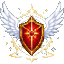
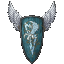
feat: 성기사 각성 아이템 6종 그림과 아이템 플레이버 문구 12종

diff --git a/tests/codex.test.ts b/tests/codex.test.ts
@@ -29,9 +29,9 @@ describe('도감', () => {
     for (const e of withFlavor) expect(D.text[e.flavor!], e.id).toBeTypeOf('string');
     expect(D.enemies.enemies.find((e) => e.id === 'royalMage')?.flavor).toBeUndefined();
   });
-  it('아이템·무기 플레이버 문구 36종이 모두 ko.json에 있다', () => {
+  it('아이템·무기 플레이버 문구 48종이 모두 ko.json에 있다', () => {
     const withFlavor = [...D.items.items, ...D.weapons.weapons].filter((x) => x.flavor);
-    expect(withFlavor).toHaveLength(36);
+    expect(withFlavor).toHaveLength(48);
     for (const x of withFlavor) expect(D.text[x.flavor!], x.id).toBeTypeOf('string');
   });
   it('모든 일반 적 공격과 보스 패턴에 도감 설명이 있다', () => {

diff --git a/docs/ASSETS.md b/docs/ASSETS.md
@@ -8,7 +8,7 @@
 - 애니메이션(플레이어·적): `"anims": { "idle": { "from", "to", "fps" }, "move": { ... } }`(프레임 번호 0부터). 그림은 오른쪽을 보게 그리고(왼쪽이면 `"facing": "left"`), 움직이는 방향에 따라 좌우로 뒤집는다.
 - item·icon은 게임 화면이 아니라 카드·인벤토리·HUD 아이콘이다. tile은 한 장을 반복해서 깐다(문은 잠겼을 때만 보인다).
 
-전체 697개 · 그림 있음 660개
+전체 697개 · 그림 있음 664개
 
 ## player (6)
 
@@ -495,11 +495,11 @@
 | `item_old_magi_engine` | 구형 마기기관 | 8×8 | center | #5a6ad9 | mku/item_old_magi_engine.png (1프레임) |
 | `item_sirius_armor` | 시리우스의 갑주 | 8×8 | center | #3a6ad9 | mku/item_sirius_armor.png (1프레임) |
 | `item_hermes_herald` | 헤르메스의 전령 | 8×8 | center | #e8e0d0 | mku/item_hermes_herald.png (1프레임) |
-| `item_dawn_flame` | 새벽불길 | 8×8 | center | #ff8a1e | — |
-| `item_blood_rider` | 선혈기수 | 8×8 | center | #b01e2a | — |
+| `item_dawn_flame` | 새벽불길 | 8×8 | center | #ff8a1e | mku/item_dawn_flame.png (1프레임) |
+| `item_blood_rider` | 선혈기수 | 8×8 | center | #b01e2a | mku/item_blood_rider.png (1프레임) |
 | `item_phantom_feather` | 환상의 깃털 | 8×8 | center | #f0f0ff | mku/item_phantom_feather.png (1프레임) |
-| `item_master_g_statue` | 마스터 G 조각상 | 8×8 | center | #c8a050 | — |
-| `item_sarvis_shield` | 사르비스의 방패 | 8×8 | center | #8a6a3a | — |
+| `item_master_g_statue` | 마스터 G 조각상 | 8×8 | center | #c8a050 | mku/item_master_g_statue.png (1프레임) |
+| `item_sarvis_shield` | 사르비스의 방패 | 8×8 | center | #8a6a3a | mku/item_sarvis_shield.png (1프레임) |
 | `item_hela_cell` | 헬라 세포 | 8×8 | center | #5a8ad9 | mku/item_hela_cell.png (1프레임) |
 | `item_forbidden_virus` | 금지된 바이러스 | 8×8 | center | #5a8ad9 | mku/item_forbidden_virus.png (1프레임) |
 | `item_forbidden_gift` | 열어선 안되는 선물 | 8×8 | center | #ffd23f | mku/item_forbidden_gift.png (1프레임) |

diff --git a/docs/DECISIONS.md b/docs/DECISIONS.md
@@ -752,3 +752,4 @@
 - 2026-11-10: 성기사 회피 방패 돌격(사용자 지정): 속도 250·0.34초(기본 220·0.18초 → 거리 약 2배), 무적 없음, 돌진 중 받는 피해 −50%, 앞 반원 반경 12에 닿은 적을 돌진 방향과 옆으로 26px 밀침(한 돌격에 한 번), 피해 없음.
 - 2026-11-10: 각성 이펙트·아이콘 원본(사용자 제공 생성 그림 7장)은 scripts/art-src/paladin-awakening/, 변환 scripts/build-paladin-awakening.cjs(build-art가 불러 씀). 칸 안쪽을 잘라 초록 배경을 지우고 초록 번짐을 누른 뒤, 애니메이션마다 프레임 bbox 합의 정사각 틀로 맞춰 줄인다. 각성한 스킬·궁극기는 HUD·각성 컷씬에서 `<아이콘 키>A` 그림이 있으면 그것을 쓴다(artKeys.awakenedIcon). 헤르메스의 전령·환상의 깃털 아이템 그림은 같은 시트의 아이콘 칸.
 - 2026-11-10: 사르비스의 방패 고유 능력 「굳어 가는 시선」(사용자가 A안 채택): 자동 조준이 겨눈 적이 겨눈 시간에 비례해 최대 50% 느려지고, 2초를 넘기면 1.5초 석화(보스는 50%까지 느려지기만). 조준이 다른 적으로 넘어가면 원래 적은 바로 풀린다. 석화가 풀리면 0초부터 다시 센다. 보스 감속은 접근 이동에만 걸고 돌진 패턴 속도는 그대로. 느려지는 동안 옅은 돌빛(petrifyTint)으로 물든다.
+- 2026-11-10: 성기사 각성 아이템 6종 그림(사용자 제공): 흰 배경을 가장자리부터 지우고(마스터 G 조각상은 고리 안에 갇힌 흰 배경도, 눈 흰자는 남김) art-src/items에 두어 build-art MY_ITEM 표로 64px. 헤르메스의 전령·환상의 깃털은 각성 시트에서 잘라 쓰던 아이콘 대신 이 그림. v174 원본 폴더가 이 PC에 없어 6장만 같은 함수로 따로 만들고 art.json에 넣음. 플레이버 문구 12종(사용자 지정, 마스터 G 조각상은 가격 줄 포함) 추가.
